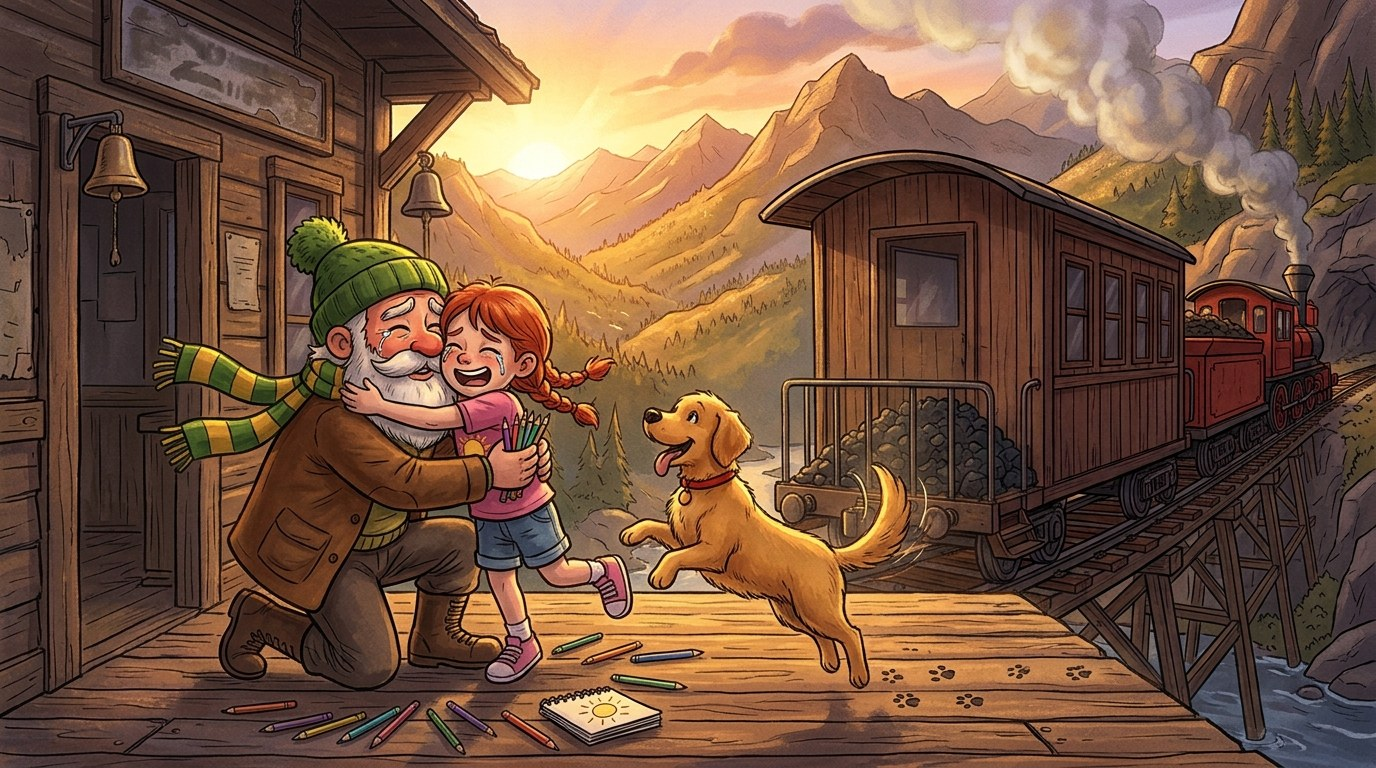
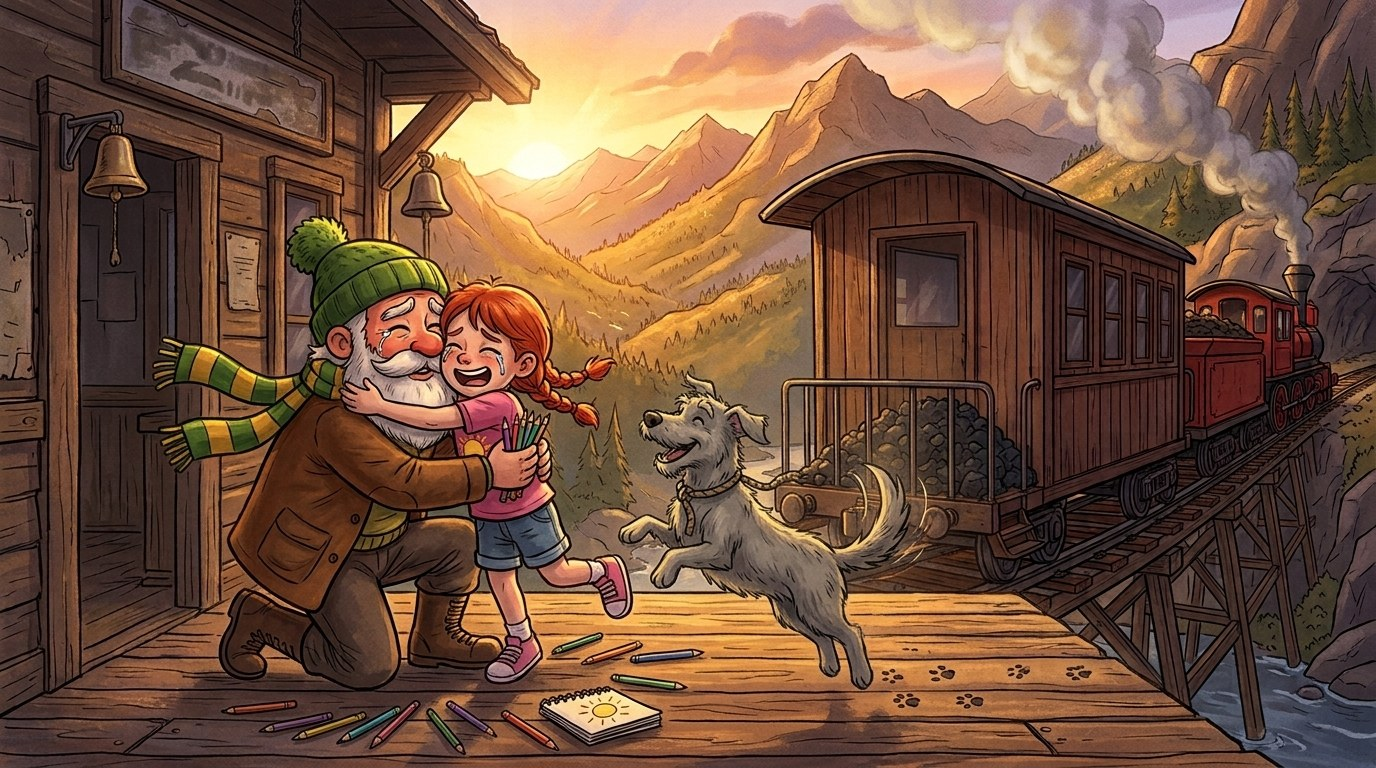
Ep3: Pipoca certo nas cenas e três mecânicas que dependem dele
- Cenas do Ep3 refeitas com o Pipoca de verdade (vira-lata cinza, coleira de corda): abertura da
  fortaleza, trole, vagão de carvão, reencontro e varanda.
- Guarita: um vigia parado na frente da porta dos porões; o Pipoca (o vigia não liga para cachorro)
  late e o vigia sai do posto para ver; o Tomé passa por trás.
- Porões: grade com portinhola; o Pipoca passa e segura a placa.
- Estação: o trole está amarrado no poste; só o Pipoca rói a corda.
- route3 cobre as três; porta dos porões e fogueira 2 mais à frente.

Claude-Session: https://claude.ai/code/session_01W4uJMM5KLRnk3edeqa4wjD

Changed region(s): [[0.4375, 0.4688, 0.6875, 0.9062]]

diff --git a/tools/gen_level3.py b/tools/gen_level3.py
@@ -270,20 +270,27 @@ L["items"].append({"x": 10100, "y": 470, "id": "chave", "toca": 1})
 L["clues"].append({"x": 9800, "y": 470, "id": 16})
 hint(9800, 10050, "Terra revirada no jardim... Pipoca, fareja!")
 # vigia 2 (o lampião vira mais rápido) e mais esconderijos
-L["watchmen"].append({"x0": 10500, "x1": 11700, "spd": 1.3})
-for hx, k in [(10700, "barrel"), (11050, "crate"), (11420, "barrel")]:
+L["watchmen"].append({"x0": 10500, "x1": 11600, "spd": 1.3})
+for hx, k in [(10700, "barrel"), (11050, "crate"), (11380, "barrel")]:
     L["hides"].append({"x": hx, "w": 66 if k == "crate" else 46, "k": k, "h": 48 if k == "crate" else 54})
 coins_line(10400, 11900, 470, 70)
 check(10300)
+# B4 · a guarita: um vigia parado na frente da porta dos porões, de olho no pátio. O Tomé não passa...
+#      mas o Pipoca (o vigia não liga para cachorro) chega perto e LATE: o vigia vai ver o que é,
+#      e o Tomé passa por trás dele até a porta
+L["watchmen"].append({"x0": 12360, "x1": 12360, "post": 1, "spd": 1.6})
+hint(11880, 12060, "Um vigia de guarita na frente da porta dos porões! Troque para o Pipoca (botão do cachorro) — o vigia não liga "
+                   "para cachorro. Leve o Pipoca para trás do Tomé (para a esquerda) e LATA (✦): o vigia sai do posto para ver. "
+                   "Quando ele passar, volte para o Tomé e corra até a porta.", yl=-120)
 # a porta dos porões (trancada: a chave que o Pipoca achou)
-S.append({"t": "pgate", "id": "dg1", "x": 12320, "y": -700, "w": 22, "h": 1200, "crank": 1})
-wall(12290, 12380, -620, 380)
-L["locks"].append({"x": 12200, "y": 380, "w": 90, "h": 120, "id": "dg1", "kind": "gate", "gate": "dg1", "need": "chave",
+S.append({"t": "pgate", "id": "dg1", "x": 12520, "y": -700, "w": 22, "h": 1200, "crank": 1})
+wall(12490, 12580, -620, 380)
+L["locks"].append({"x": 12400, "y": 380, "w": 90, "h": 120, "id": "dg1", "kind": "gate", "gate": "dg1", "need": "chave",
                    "parts": ["chave"], "short": "a porta dos porões",
                    "where": {"chave": "enterrada no jardim do pátio (o Pipoca fareja onde)"},
                    "pre": "A porta dos porões está trancada.", "place": "Vá até a porta dos porões e toque em ✦ USAR.",
                    "use": "Toque em ✦ USAR na porta para destrancar.", "msg": "A chave girou! A porta dos porões está subindo..."})
-check(12000, GY, 2)
+check(11960, GY, 2)
 
 # ======================================================================
 #  C · OS PORÕES  (12600 .. 21000)   — labirinto de três andares
@@ -306,9 +313,14 @@ wall(12600, 14300, F1, F1 + 40)        # piso do andar do meio (por cima das pas
 bat(13450, F1 + 140, [13350, 13560], F1 + 40)
 coins_line(12900, 14000, 487, 70)
 check(12720)
+# a grade do térreo com portinhola de cachorro: o Pipoca passa e segura a placa do outro lado
+S.append({"t": "pgate", "id": "pg3", "x": 14110, "y": F1 + 40, "w": 22, "h": GY - F1 - 40, "dogpass": 1})
+L["plates"].append({"x": 14190, "y": GY, "w": 60, "gate": "pg3"})
+hint(13950, 14100, "Uma grade com portinhola de cachorro! Troque para o Pipoca, passe por ela e pare na placa: "
+                   "a grade sobe. Depois volte para o Tomé (o Pipoca fica segurando).", yl=-60)
 # a escada para o andar do meio
 ladder(14370, F1, GY)
-check(14250)
+check(14290)
 # térreo continua: o beco do Pipoca (desenho enterrado) e espinhos
 wall(14400, 17870, F1, F1 + 40)        # piso do meio
 spikes(14700, 100, per=140)
@@ -491,9 +503,11 @@ hint(E0 + 4300, E0 + 4500, "Que barulho de ferro é esse?...")
 F0 = E0 + 6000
 L["door"] = {"x": F0 + 400, "y": 410, "kind": "station", "lock": 1}
 hint(F0 - 250, F0 + 500, "A estação velha! O trem do Vargas está saindo... Pule no trole dos trilhos e vá atrás dele!")
+hint(F0 + 560, F0 + 800, "O trole está amarrado no poste! Troque para o Pipoca e toque ✦ perto do poste: ele rói a corda.", yl=-120)
 check(F0 - 120)
 TRK = 6400
 L["sled"] = {"x": F0 + 760, "x1": F0 + 900, "y": GY, "tx0": 60000, "len": TRK, "skin": "cart", "train": 1,
+             "rope": [F0 + 640, GY],
              "endMsg": "O trole alcançou o trem!",
              "pts": [[0, 430], [800, 440], [1600, 455], [2400, 465], [3200, 480], [4000, 490], [4800, 500], [5600, 506], [TRK, 510]],
              "obs": [{"k": "rock", "u": 900, "barrel": 1}, {"k": "branch", "u": 1700}, {"k": "crack", "u": 2400, "w": 90},
